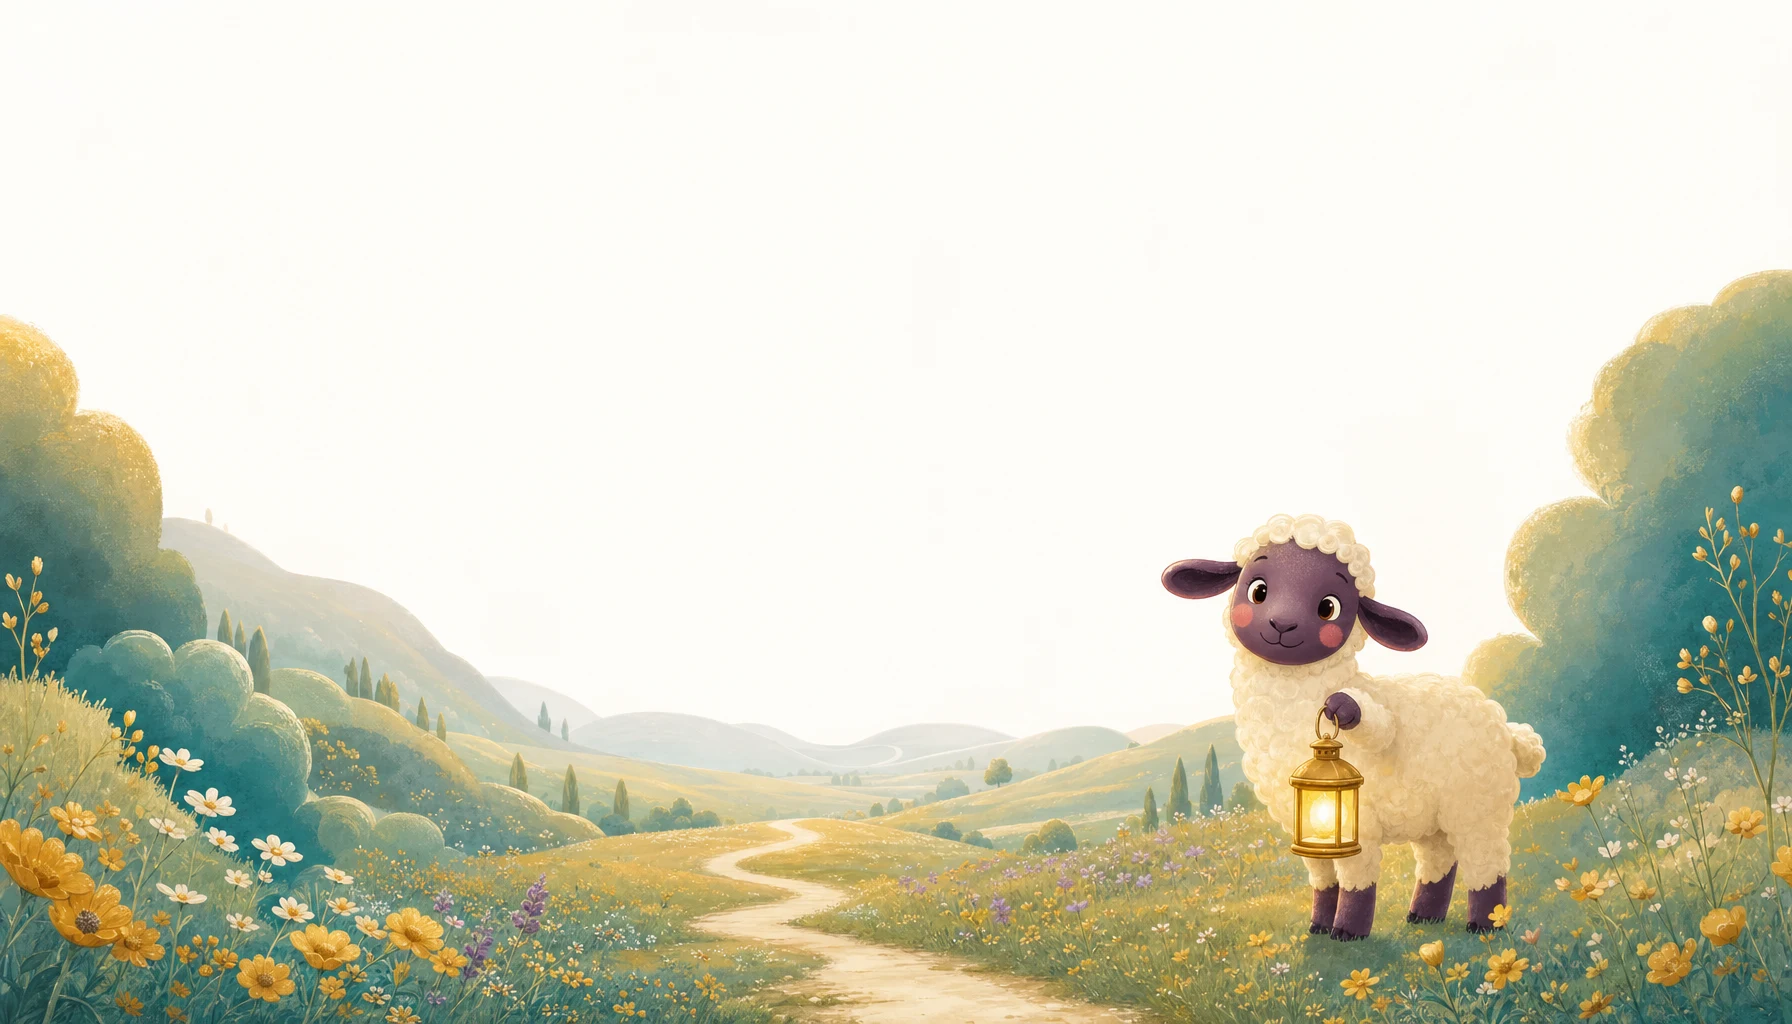
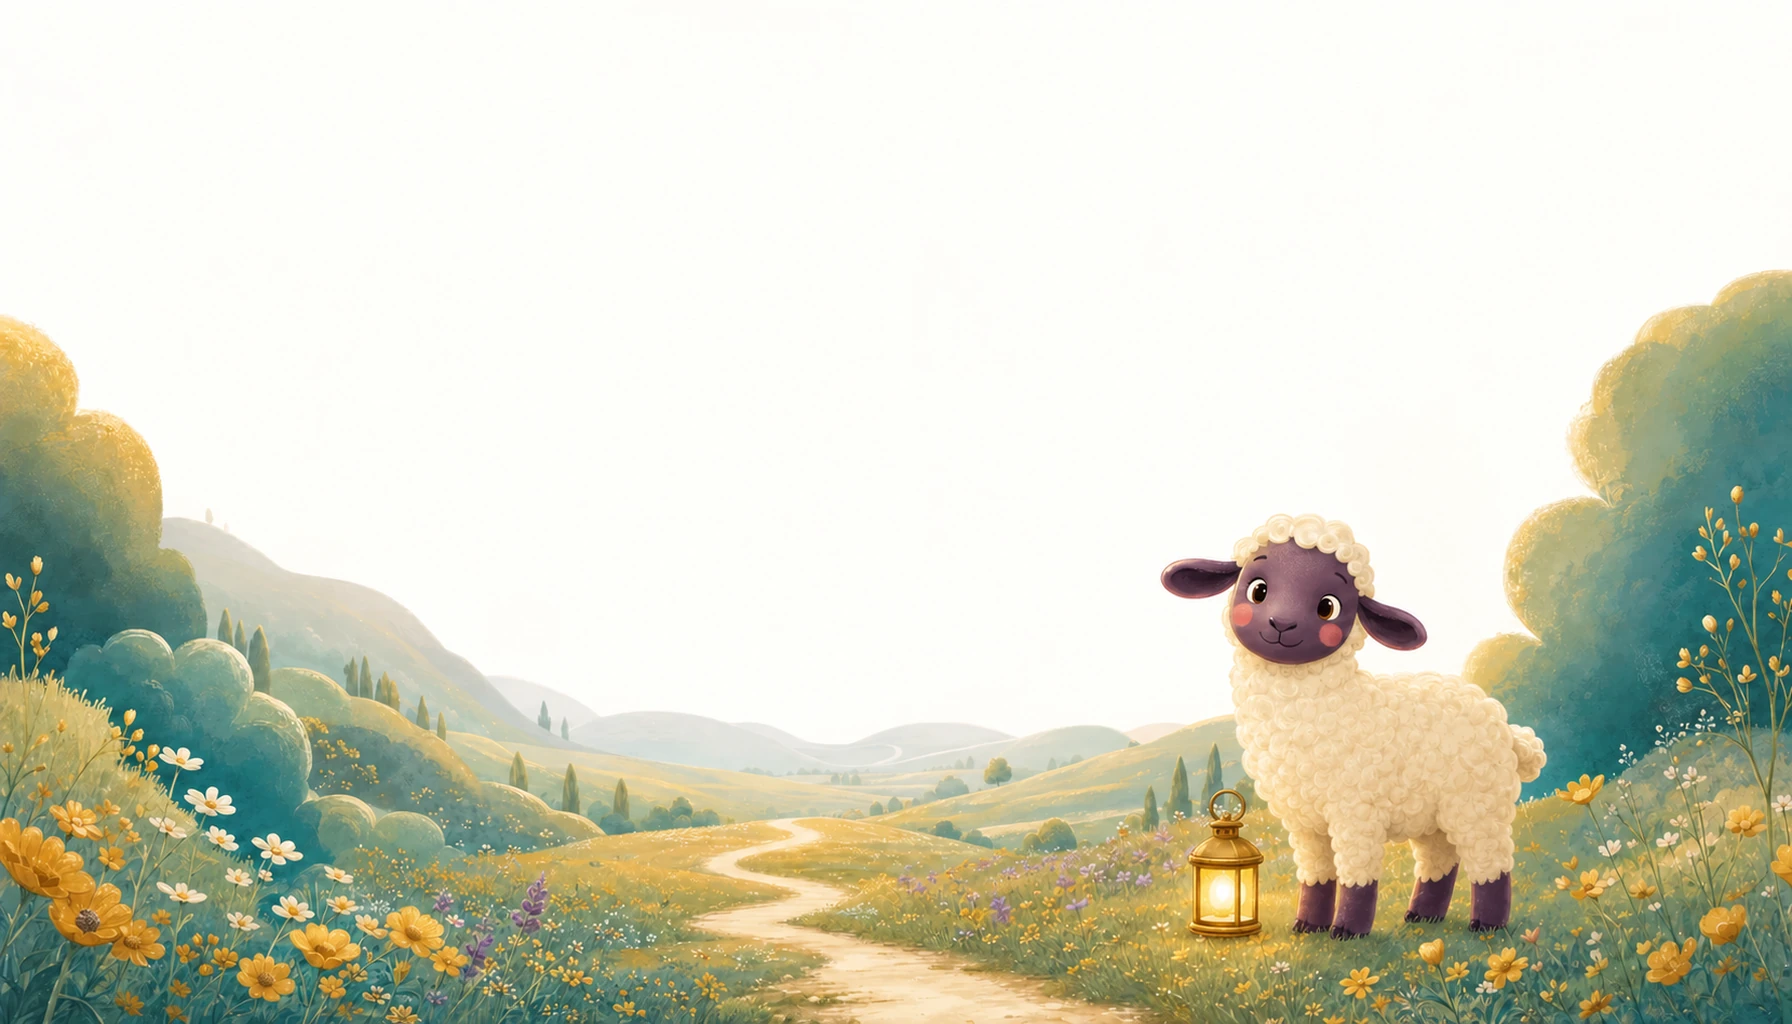
Pip stands on four legs, with the lantern on the grass
Codex's corrected meadow art (the old one had a fifth limb holding the lantern)
and the share card rebuilt from it. Lantern glow moved onto the new lantern;
eyelid blink re-aligned to the eyes, which shifted slightly in the new art.

diff --git a/index.html b/index.html
@@ -38,7 +38,7 @@
 <body>
 <a class="skip-link" href="#content" data-od-id="skip-content">Skip to content</a>
 <style>[hidden]{display:none!important}</style><header class="topnav" data-od-id="navigation"><div class="container topnav-inner"><a class="logo" href="#home" data-od-id="brand"><picture><source srcset="assets/brand/web/logo-icon-96.webp" type="image/webp"><img class="logo-mark" src="assets/brand/web/logo-icon-96.png" width="42" height="42" alt=""></picture>little light</a><nav aria-label="Main navigation"><a href="#stories" data-od-id="stories-link">Your journey</a><a href="#how" data-od-id="how-link">How it works</a><a href="#play" data-od-id="play-link">Try a little game</a><a href="https://fider-little-light.duseb.pro/" target="_blank" rel="noopener" id="nav-feedback">Share feedback<span class="sr-only"> (opens in a new tab)</span></a></nav><details class="light-collection" id="light-collection" data-od-id="my-light"><summary aria-label="My light collection" id="light-toggle" data-od-id="my-light-toggle"><svg viewBox="0 0 24 24" fill="none" stroke="currentColor" stroke-width="1.8" stroke-linejoin="round" aria-hidden="true"><path d="m12 3 2.8 5.7 6.2.9-4.5 4.4 1.1 6.2-5.6-3-5.6 3 1.1-6.2L3 9.6l6.2-.9Z"/></svg><span>My light</span><strong id="light-nav-count">0</strong></summary><div class="light-panel" data-od-id="my-light-panel"><div class="light-panel-top"><span class="light-eyebrow">YOUR LITTLE COLLECTION</span><button type="button" id="light-close" aria-label="Close My light" data-od-id="my-light-close"><svg viewBox="0 0 24 24" fill="none" stroke="currentColor" stroke-width="2" aria-hidden="true"><path d="m6 6 12 12M18 6 6 18"/></svg></button></div><h2 id="light-title" data-od-id="my-light-title">Every little star begins somewhere.</h2><p id="light-message">Your first story is waiting.</p><div class="light-treasure"><svg viewBox="0 0 24 24" fill="none" stroke="currentColor" stroke-width="1.8" stroke-linejoin="round" aria-hidden="true"><path d="m12 3 2.8 5.7 6.2.9-4.5 4.4 1.1 6.2-5.6-3-5.6 3 1.1-6.2L3 9.6l6.2-.9Z"/></svg><strong id="light-stars">0</strong><span>stars collected</span></div><dl class="light-stats"><div><dt>Stories completed</dt><dd><span id="light-stories">0</span><small> / 21</small></dd></div><div><dt>Days shining</dt><dd id="light-days">0</dd></div></dl><a class="btn btn-secondary" href="play/?story=next" id="light-continue" data-od-id="my-light-continue">Start my first story</a><button type="button" class="btn btn-secondary session-settings" id="landing-sound" aria-pressed="true"><svg viewBox="0 0 24 24" fill="none" stroke="currentColor" stroke-width="1.8" stroke-linecap="round" stroke-linejoin="round" aria-hidden="true"><path d="M11 4 6 8H3v8h3l5 4Z"/><path d="M15 8a6 6 0 0 1 0 8m3-11a10 10 0 0 1 0 14"/></svg><span id="sound-setting-label">Sound: on</span></button><div class="light-app" id="light-app" hidden><strong>Little Light on your home screen</strong><p id="light-app-note">Open it like an app, even without internet.</p><button type="button" class="btn btn-secondary" id="light-install" hidden><svg viewBox="0 0 24 24" fill="none" stroke="currentColor" stroke-width="1.8" stroke-linecap="round" stroke-linejoin="round" aria-hidden="true"><rect x="6" y="2.5" width="12" height="19" rx="2.5"/><path d="M12 8v6m-3-3 3 3 3-3"/></svg><span>Add to home screen</span></button><p class="light-ios" id="light-ios" hidden>On iPhone or iPad: tap <b>Share</b>, then <b>Add to Home Screen</b>. Stars saved here in Safari stay in Safari, so add it before you start.</p><button type="button" class="btn btn-secondary" id="light-offline"><svg viewBox="0 0 24 24" fill="none" stroke="currentColor" stroke-width="1.8" stroke-linecap="round" stroke-linejoin="round" aria-hidden="true"><path d="M12 4v11m-4-4 4 4 4-4M5 19h14"/></svg><span>Save all stories for offline</span></button><p class="light-offline-status" id="light-offline-status" aria-live="polite"></p></div><div class="light-device"><strong>No account needed</strong><p id="light-device-note">Progress is saved in this browser on this device. It won’t follow you to another browser, and clearing site data removes it.</p><p class="light-feedback">Something to tell us? <a href="https://fider-little-light.duseb.pro/" target="_blank" rel="noopener">Share feedback<span class="sr-only"> (opens in a new tab)</span></a></p></div><noscript>Turn on JavaScript to read your saved collection.</noscript></div></details></div></header>
-<main id="content"><section class="section hero storyworld" id="home" data-od-id="hero"><div class="storyworld-art" aria-hidden="true"><img id="storybook-landscape" src="assets/landing/storybook-meadow.webp" width="1792" height="1024" alt="" fetchpriority="high" decoding="async"><svg class="pip-life" viewBox="0 0 1792 1024" preserveAspectRatio="xMidYMax slice" aria-hidden="true" focusable="false"><defs><linearGradient id="pip-lid-left" x1="0" y1="0" x2="1" y2="1"><stop stop-color="oklch(0.61616 0.05411 14.114)"/><stop offset="1" stop-color="oklch(0.53089 0.05808 2.468)"/></linearGradient><linearGradient id="pip-lid-right" x1="0" y1="0" x2="1" y2="1"><stop stop-color="oklch(0.42922 0.05476 351.400)"/><stop offset="1" stop-color="oklch(0.38381 0.05251 342.473)"/></linearGradient><radialGradient id="pip-lantern-light"><stop stop-color="var(--accent)" stop-opacity=".65"/><stop offset=".35" stop-color="var(--accent)" stop-opacity=".18"/><stop offset="1" stop-color="var(--accent)" stop-opacity="0"/></radialGradient></defs><g class="pip-blink"><g transform="rotate(12 1258 591)"><ellipse cx="1258" cy="591" rx="13" ry="17" fill="url(#pip-lid-left)"/><path d="M1249 592 Q1258 599 1267 592" fill="none" stroke="var(--fg)" stroke-width="2.5" stroke-linecap="round"/></g><g transform="rotate(14 1330 608)"><ellipse cx="1330" cy="608" rx="13" ry="17" fill="url(#pip-lid-right)"/><path d="M1321 609 Q1330 616 1339 609" fill="none" stroke="var(--fg)" stroke-width="2.5" stroke-linecap="round"/></g></g><ellipse class="pip-lantern-glow" cx="1325" cy="815" rx="62" ry="72" fill="url(#pip-lantern-light)"/></svg></div><div class="container storyworld-copy"><h1 data-od-id="hero-title">Little stories.<br>Big light.</h1><p class="lead">Bible stories. Little games. Growing faith.<br>Five minutes of wonder for curious kids aged 5–7.</p><div class="hero-cta"><a class="btn btn-primary" href="play/?story=next" data-od-id="start-adventure">Light the first star <svg class="action-icon" data-icon="star" viewBox="0 0 24 24" width="20" height="20" fill="none" stroke="currentColor" stroke-width="2" stroke-linecap="round" stroke-linejoin="round" aria-hidden="true" focusable="false"><path d="m12 3 2.8 5.7 6.3.9-4.5 4.4 1.1 6.2-5.7-3-5.7 3 1.1-6.2L2.9 9.6l6.3-.9Z"/></svg></a><a class="btn btn-ghost" href="#stories" data-od-id="browse-stories">Explore the journey <svg class="action-icon" data-icon="book" viewBox="0 0 24 24" width="20" height="20" fill="none" stroke="currentColor" stroke-width="2" stroke-linecap="round" stroke-linejoin="round" aria-hidden="true" focusable="false"><path d="M12 6.5C9 4.5 5.5 4.2 3 5v14c2.5-.8 6-.5 9 1.5 3-2 6.5-2.3 9-1.5V5c-2.5-.8-6-.5-9 1.5Zm0 0v14"/></svg></a></div><p class="hero-note">A little adventure in faith, with Pip by your side.</p></div><div class="storyworld-caption" data-od-id="scene-caption"><span>Meet Pip, your little guide.</span><span>Let’s see where the path leads.</span></div></section>
+<main id="content"><section class="section hero storyworld" id="home" data-od-id="hero"><div class="storyworld-art" aria-hidden="true"><img id="storybook-landscape" src="assets/landing/storybook-meadow.webp" width="1792" height="1024" alt="" fetchpriority="high" decoding="async"><svg class="pip-life" viewBox="0 0 1792 1024" preserveAspectRatio="xMidYMax slice" aria-hidden="true" focusable="false"><defs><linearGradient id="pip-lid-left" x1="0" y1="0" x2="1" y2="1"><stop stop-color="oklch(0.61616 0.05411 14.114)"/><stop offset="1" stop-color="oklch(0.53089 0.05808 2.468)"/></linearGradient><linearGradient id="pip-lid-right" x1="0" y1="0" x2="1" y2="1"><stop stop-color="oklch(0.42922 0.05476 351.400)"/><stop offset="1" stop-color="oklch(0.38381 0.05251 342.473)"/></linearGradient><radialGradient id="pip-lantern-light"><stop stop-color="var(--accent)" stop-opacity=".65"/><stop offset=".35" stop-color="var(--accent)" stop-opacity=".18"/><stop offset="1" stop-color="var(--accent)" stop-opacity="0"/></radialGradient></defs><g class="pip-blink"><g transform="translate(1 -4) rotate(12 1258 591)"><ellipse cx="1258" cy="591" rx="13" ry="17" fill="url(#pip-lid-left)"/><path d="M1249 592 Q1258 599 1267 592" fill="none" stroke="var(--fg)" stroke-width="2.5" stroke-linecap="round"/></g><g transform="translate(3 -1) rotate(14 1330 608)"><ellipse cx="1330" cy="608" rx="13" ry="17" fill="url(#pip-lid-right)"/><path d="M1321 609 Q1330 616 1339 609" fill="none" stroke="var(--fg)" stroke-width="2.5" stroke-linecap="round"/></g></g><ellipse class="pip-lantern-glow" cx="1221" cy="884" rx="62" ry="72" fill="url(#pip-lantern-light)"/></svg></div><div class="container storyworld-copy"><h1 data-od-id="hero-title">Little stories.<br>Big light.</h1><p class="lead">Bible stories. Little games. Growing faith.<br>Five minutes of wonder for curious kids aged 5–7.</p><div class="hero-cta"><a class="btn btn-primary" href="play/?story=next" data-od-id="start-adventure">Light the first star <svg class="action-icon" data-icon="star" viewBox="0 0 24 24" width="20" height="20" fill="none" stroke="currentColor" stroke-width="2" stroke-linecap="round" stroke-linejoin="round" aria-hidden="true" focusable="false"><path d="m12 3 2.8 5.7 6.3.9-4.5 4.4 1.1 6.2-5.7-3-5.7 3 1.1-6.2L2.9 9.6l6.3-.9Z"/></svg></a><a class="btn btn-ghost" href="#stories" data-od-id="browse-stories">Explore the journey <svg class="action-icon" data-icon="book" viewBox="0 0 24 24" width="20" height="20" fill="none" stroke="currentColor" stroke-width="2" stroke-linecap="round" stroke-linejoin="round" aria-hidden="true" focusable="false"><path d="M12 6.5C9 4.5 5.5 4.2 3 5v14c2.5-.8 6-.5 9 1.5 3-2 6.5-2.3 9-1.5V5c-2.5-.8-6-.5-9 1.5Zm0 0v14"/></svg></a></div><p class="hero-note">A little adventure in faith, with Pip by your side.</p></div><div class="storyworld-caption" data-od-id="scene-caption"><span>Meet Pip, your little guide.</span><span>Let’s see where the path leads.</span></div></section>
 <div class="container"><div class="fact-strip" data-od-id="product-facts"><span><strong>21 stories</strong> to discover</span><span><strong>5 minutes</strong> for a little wonder</span><span>Made for <strong>ages 5–7</strong></span><span>One bright star at a time</span></div><div style="text-align:right"><button class="motion-control" id="motion" aria-pressed="false" data-od-id="motion-toggle">Pause playful motion</button></div></div>
 <section class="section journey" id="stories" data-od-id="weekly-journey"><svg class="journey-wave" viewBox="0 0 1440 32" preserveAspectRatio="none" aria-hidden="true" focusable="false"><path d="M0 0H1440V16Q1410 0 1380 16Q1350 32 1320 16Q1290 0 1260 16Q1230 32 1200 16Q1170 0 1140 16Q1110 32 1080 16Q1050 0 1020 16Q990 32 960 16Q930 0 900 16Q870 32 840 16Q810 0 780 16Q750 32 720 16Q690 0 660 16Q630 32 600 16Q570 0 540 16Q510 32 480 16Q450 0 420 16Q390 32 360 16Q330 0 300 16Q270 32 240 16Q210 0 180 16Q150 32 120 16Q90 0 60 16Q30 32 0 16Z"/></svg><svg class="journey-wave journey-wave-mobile" viewBox="0 0 480 32" preserveAspectRatio="none" aria-hidden="true" focusable="false"><path d="M0 0H1440V16Q1410 0 1380 16Q1350 32 1320 16Q1290 0 1260 16Q1230 32 1200 16Q1170 0 1140 16Q1110 32 1080 16Q1050 0 1020 16Q990 32 960 16Q930 0 900 16Q870 32 840 16Q810 0 780 16Q750 32 720 16Q690 0 660 16Q630 32 600 16Q570 0 540 16Q510 32 480 16Q450 0 420 16Q390 32 360 16Q330 0 300 16Q270 32 240 16Q210 0 180 16Q150 32 120 16Q90 0 60 16Q30 32 0 16Z"/></svg><div class="container">
 <div class="journey-heading"><div><h2 data-od-id="journey-title">A little step.<br>A brighter journey.</h2><p>Three weeks of faith, wonder, and kindness.<br>One story at a time, at your own pace.</p></div><div class="journey-total"><strong id="journey-total">21</strong><span id="journey-total-label">stories to discover</span></div></div>
